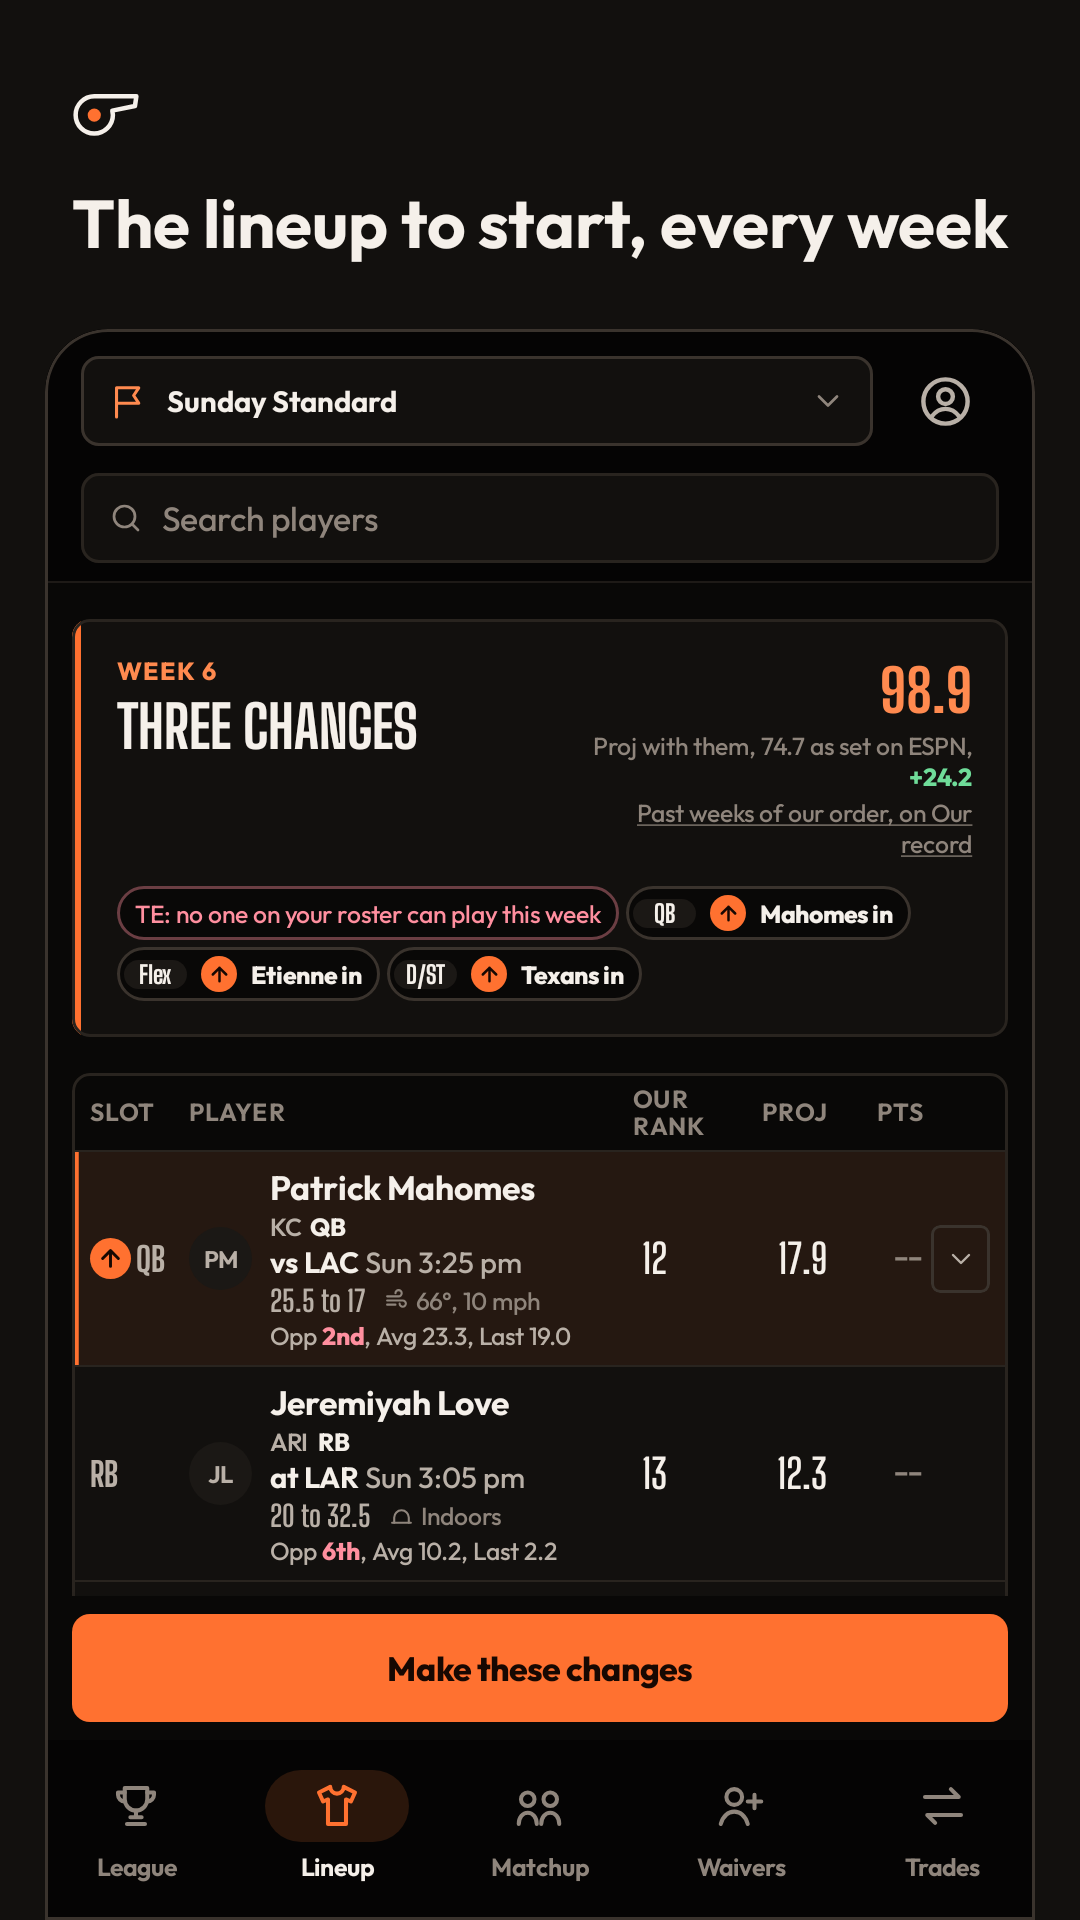
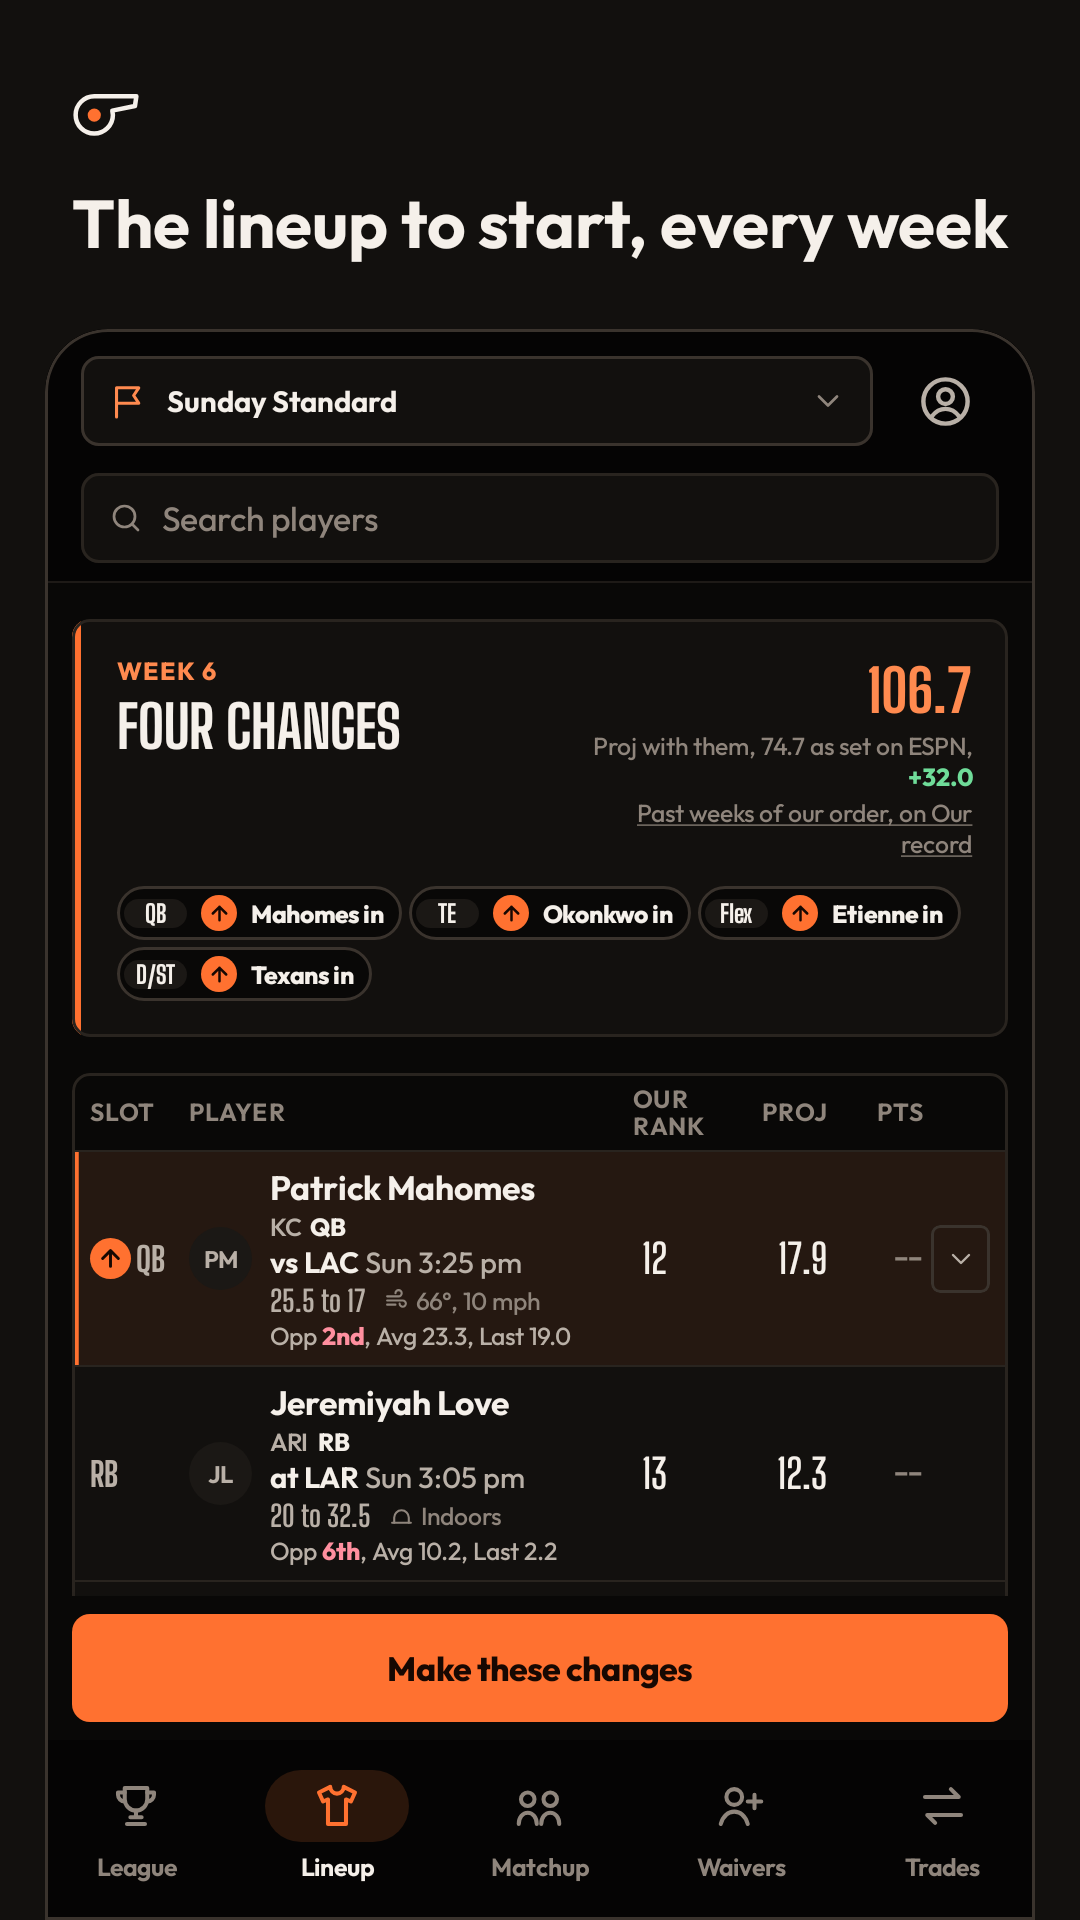
fix(store): the first shot's lineup fills every slot (Lane 255, coordinator ruling)
The lineup shot led with "TE: no one on your roster can play this week": in
the fixture the set TE is on his bye and the bench TE is ruled out. In the
store run only, the bench TE is cleared to play and the advice starts him, the
bye TE goes to the bench (everySlotFilled), so the card shows four changes,
106.7 with them against 74.7 as set. The shared fixtures are untouched.

Changed region(s): [[0.1222, 0.4688, 0.8861, 0.5312], [0.0917, 0.3438, 0.3972, 0.4062], [0.7944, 0.3438, 0.9167, 0.375]]

diff --git a/apps/android/storeshots/src/test/kotlin/app/trycommish/storeshots/StoreScenes.kt b/apps/android/storeshots/src/test/kotlin/app/trycommish/storeshots/StoreScenes.kt
@@ -7,6 +7,8 @@ import app.trycommish.api.models.HostMovePlan
 import app.trycommish.api.models.HostMoveResult
 import app.trycommish.api.models.LeagueHost
 import app.trycommish.api.models.LeaguePhase
+import app.trycommish.api.models.LineupAdvice
+import app.trycommish.api.models.LineupSlot
 import app.trycommish.api.models.ScoringPreset
 import app.trycommish.api.models.TradeCheck
 import app.trycommish.api.models.TradeCheckInput
@@ -139,11 +141,27 @@ fun screenOf(
 /** Saturday noon, the lineup on a platform that takes it: the swaps and the one verb that sets them. */
 private fun lineup(): @Composable () -> Unit {
     val now = StartFixtures.instant(StartFixtures.WEEK)
-    val model = startModel(StartFixtures.writes(StartFixtures.WEEK), storeLeague.host, now, Fixtures.zone)
+    val model = startModel(everySlotFilled(StartFixtures.writes(StartFixtures.WEEK)), storeLeague.host, now, Fixtures.zone)
     val ui = StartUi(state = StartState.Loaded(model, now, stale = false))
     val stamp = startStamp(ui, Fixtures.zone)
     val pin = startPin(ui, ValueWords.platform(storeLeague.host), Fixtures.zone)
     return { StartScreen(ui, stamp, pin, refreshing = false, actions = StartActions()) }
+}
+
+/**
+ * The first store shot shows the lineup working, not a hole (the coordinator's ruling, Lane 255): in the
+ * fixture the set TE is on his bye and the bench TE is ruled out, so no one can fill the slot. Here the
+ * bench TE is cleared to play and the advice starts him, the bye TE goes to the bench, as the API answers a
+ * playable swap. The store run only; every other line is the fixture's own.
+ */
+internal fun everySlotFilled(advice: LineupAdvice): LineupAdvice {
+    val empty = advice.slots.single { it.slot == LineupSlot.Slot.TE && it.noOneCanPlay }
+    val ruledOut = advice.bench.single { it.player.position == "TE" && it.facts.designation != null }
+    val playing = ruledOut.copy(facts = ruledOut.facts.copy(designation = null))
+    return advice.copy(
+        slots = advice.slots.map { if (it == empty) it.copy(ours = playing, changed = true, noOneCanPlay = false) else it },
+        bench = advice.bench.map { if (it == ruledOut) empty.ours else it },
+    )
 }
 
 /** Saturday noon, the wire before it clears: the best add first, the claim pinned. */

diff --git a/docs/store/play-graphics/README.md b/docs/store/play-graphics/README.md
@@ -19,7 +19,7 @@ The script runs `./gradlew :storeshots:testDebugUnitTest -PstoreGraphics=<this f
 | --- | --- | --- | --- | --- |
 | `icon-512.png` | 512 x 512 | 32-bit PNG, RGBA | App icon | `web/static/icons/icon-512.png` pixel for pixel, re-saved with an alpha channel (opaque) |
 | `feature-graphic.png` | 1024 x 500 | 24-bit PNG, no alpha | Feature graphic | The whistle (the `Mark` composable) and "Commish" in Outfit on the dark page colour |
-| `phone-1-lineup.png` | 1080 x 1920 | 24-bit PNG, no alpha | Phone screenshot 1 | "The lineup to start, every week": Lineup, Saturday noon, three changes and the verb that makes them |
+| `phone-1-lineup.png` | 1080 x 1920 | 24-bit PNG, no alpha | Phone screenshot 1 | "The lineup to start, every week": Lineup, Saturday noon, four changes filling every slot and the verb that makes them |
 | `phone-2-waivers.png` | 1080 x 1920 | 24-bit PNG, no alpha | Phone screenshot 2 | "Your best add on waivers": Waivers, the two pickups with the best first and the claim pinned |
 | `phone-3-trades.png` | 1080 x 1920 | 24-bit PNG, no alpha | Phone screenshot 3 | "Trades that help both teams": Trades, two trades worth proposing with each side's gain |
 | `phone-4-matchup.png` | 1080 x 1920 | 24-bit PNG, no alpha | Phone screenshot 4 | "Your game, kept up to date": Matchup, Sunday afternoon with points coming in |
@@ -34,5 +34,6 @@ Upload the eight phone shots in this order: the captions are drawn into each ima
 
 - Dark theme, the caption in Outfit SemiBold on the surface token with the whistle above it, the screen below as the phone draws it: the top bar and the bottom bar are the app's own (`TopBar`, `PhoneTabBar`), lit on the screen's tab; the rankings, board and player page are pushed pages, so no tab is lit; the mock room is full screen, as in the app.
 - The data is the shared fixtures (`shared/fixtures`) at their clocks. The fixture league is a recorded public league, so its team names and its members' handles are real people's: the store run draws from a copy with each replaced by a made-up name (`apps/android/storeshots/store-names.json`), the league named "Sunday Standard" and read as ESPN, the platform the lineup and the claim are made on. Player names are public NFL players.
+- The lineup shot fills every slot: in the fixture the set TE is on his bye and the bench TE is ruled out, so the store run clears the bench TE to play and starts him (`everySlotFilled` in `StoreScenes.kt`). The first shot shows the lineup working, not a hole; every other line is the fixture's own.
 - No team logos (D/ST rows draw the club chip), no headshots (a face draws its initials, as every snapshot does), no projection or data provider named, no league member's data. The member's platform is named where the screen names it ("as set on ESPN", "Add on ESPN", "Open ESPN trades"), as the listing's description names the platforms a league can be followed on.
 - The cheat sheet is not in the apps yet and no caption or shot shows it; §1.2's eight captions name none of it, so none was dropped.
